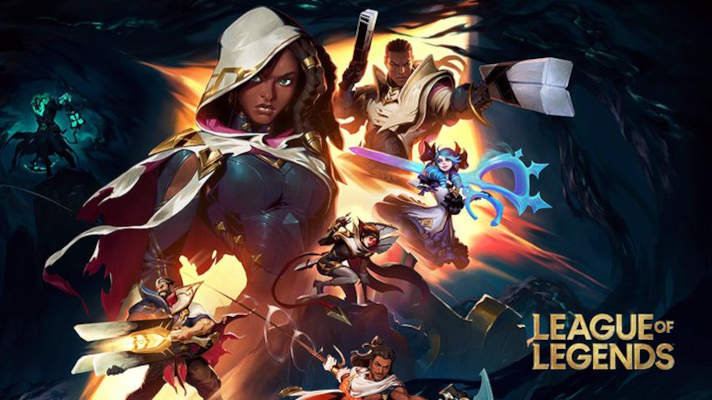
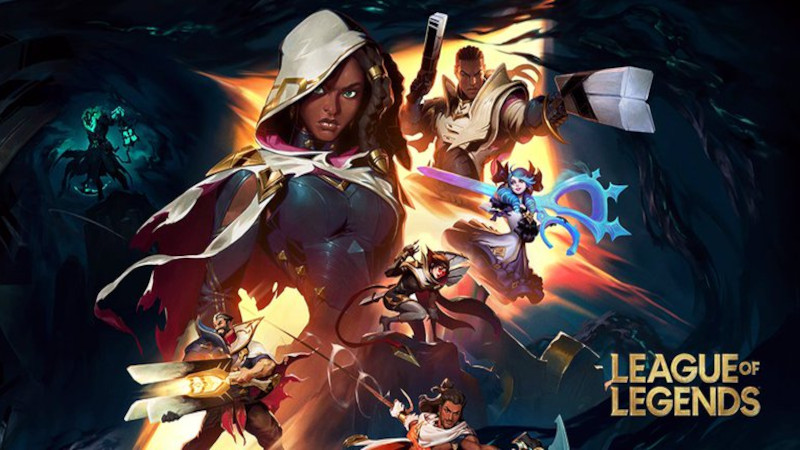
alter wight carousel

diff --git a/assets/css/main.css b/assets/css/main.css
@@ -159,14 +159,12 @@ main {
 }
 
 .carousel {
-  width: 700px;
+  width: 800px;
   margin: 0 auto;
   border: 1px solid var(--color_primary);
 } 
 
 .card_highlight{
-
-  
   
 }
 
@@ -176,7 +174,7 @@ main {
   align-items: center;
   justify-content: center;
   flex-direction: column;
-  padding: 10px 0;
+  padding: 6px 0;
   gap:10px;
   width: 100%;
   text-transform:uppercase ;
@@ -206,7 +204,7 @@ main {
 
 
 .btn_default {
-  height: 35px;
+  height: 32px;
   width: 113px;
   font-size: 18px;
   color: #fff;

diff --git a/index.html b/index.html
@@ -63,10 +63,6 @@
 
           </div>
 
-
-
-
-
           <!-- ---------------------Destaque 2 -------------------- -->
 
           <div class="card_highlight">
